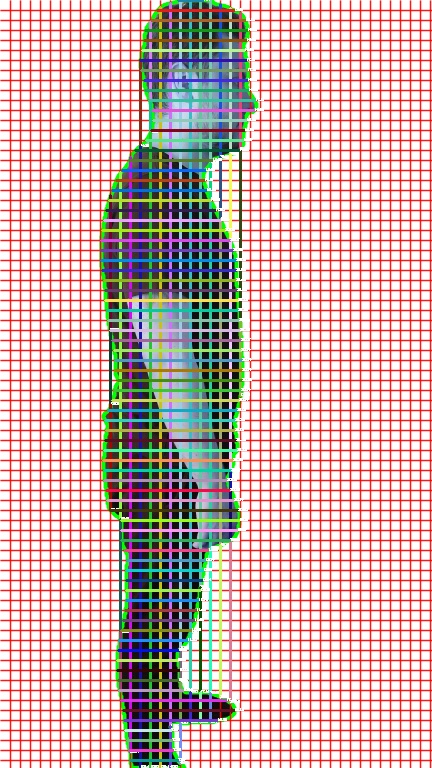
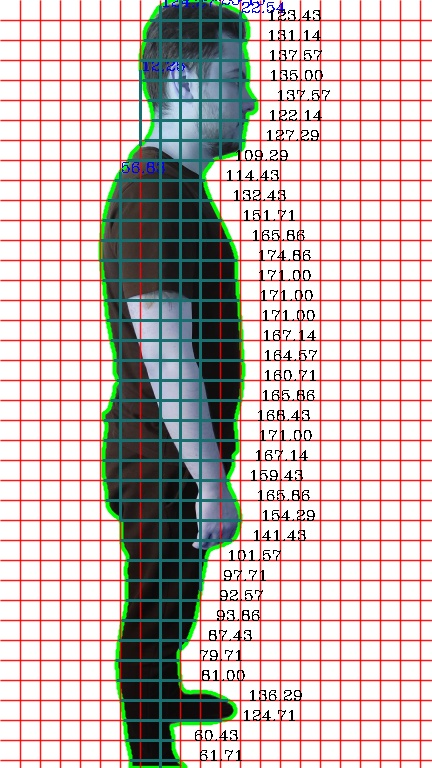
refactor

diff --git a/Logic/Measuring/MeasureObject.py b/Logic/Measuring/MeasureObject.py
@@ -15,7 +15,7 @@ def get_distinct_x(xy_coords):
     return dist_x
 
 
-def get_distinct_x_coords(xy_coords, dist_x):
+def get_x_coords(xy_coords, dist_x):
     x_coords = list()
     for j in dist_x:
         dist_x_coords = list()
@@ -26,7 +26,7 @@ def get_distinct_x_coords(xy_coords, dist_x):
     return x_coords
 
 
-def get_distinct_y_coords(xy_coords, dist_y):
+def get_y_coords(xy_coords, dist_y):
     y_coords = list()
     for j in dist_y:
         dist_y_coords = list()
@@ -45,130 +45,62 @@ def get_distinct_y(xy_coords):
     return dist_y
 
 
-def find_min_max_dot_x(_lists, _l):
-    min_max_x = list()
-    for j in range(len(_l)):
-        min = 9999999
-        max = -1
-        for i in range(len(_lists)):
-            if _lists[i][0] == _l[j]:
-                num = _lists[i][1]
-                if _lists[i][1] > max:
-                    max = num
-                if num < min:
-                    min = num
-        min_max_x.append([_l[j], min])
-        min_max_x.append([_l[j], max])
-    return min_max_x
-
-
-def find_min_max_dot_y(_lists, _l):
-    min_max_y = list()
-    for j in range(len(_l)):
-        min = 9999999
-        max = -1
-        for i in range(len(_lists)):
-            if _lists[i][1] == _l[j]:
-                num = _lists[i][0]
-                if num > max:
-                    max = num
-                if num < min:
-                    min = num
-        min_max_y.append([min, _l[j]])
-        min_max_y.append([max, _l[j]])
-    return min_max_y
-
-
-def find_same_dots_on_x(_lists, _l):
-    same_dots_x = list()
-    for j in range(len(_l)):
-        test_list_x = list()
-        for i in range(len(_lists)):
-            if _lists[i][0] == _l[j]:
-                num = _lists[i][1]
-                test_list_x.append([num, _l[j]])
-        same_dots_x.append([test_list_x])
-    return same_dots_x
-
-
-def find_same_dots_on_y(_lists, _l):
-    same_dots_y = list()
-    for j in range(len(_l)):
-        test_list_y = list()
-        for i in range(len(_lists)):
-            if _lists[i][1] == _l[j]:
-                num = _lists[i][0]
-                test_list_y.append([num, _l[j]])
-        same_dots_y.append([test_list_y])
-    return same_dots_y
-
-
-def draw_lines_x(_img, x_coords, _color):
+def draw_lines_x(_img, x_coords,pixel_lenght):
     x_coords.sort()
     for k in x_coords:
         k.sort()
         for i in range(len(k) - 1):
-            r = random.randint(0, 255)
-            g = random.randint(0, 255)
-            b = random.randint(0, 255)
-            rgb = [r, g, b]
             point1 = k[i]
-            if i > 0:
-                if k[i][1] - k[i - 1][1] < 10:
-                    continue
-            for j in range(i + 1, len(k)):
-                point2 = k[j]
-                if point2[1] - point1[1] >= 25:
-                    print(f"{point1} {point2} : {point2[1] - point1[1]}")
-                    cv2.line(_img, point1, point2, rgb, 2)
-                    cv2.putText(_img, f"{((point2[1] - point1[1]) * 0.1633):.2f}", point2, cv2.FONT_HERSHEY_SIMPLEX, 0.1, (255, 255, 255))
-                    break
+            point2 = k[i + 1]
+            if point2[1] - point1[1] < 10:
+                continue
+            if point2[1] - point1[1] >= 25:
+                print(f"{point1} {point2} : {point2[1] - point1[1]}")
+                cv2.line(_img, point1, point2, rgb, 2)
+                cv2.putText(_img, f"{((point2[1] - point1[1]) * 0.1633):.2f}", point1, cv2.FONT_HERSHEY_COMPLEX, 0.5, (255, 0, 0))
+                break
 
 
-def draw_lines_y(_img, y_coords, _color):
+def draw_lines_y(_img, y_coords, pixel_ratio):
     y_coords.sort()
     for k in y_coords:
         k.sort()
         for i in range(len(k) - 1):
-            r = random.randint(0, 255)
-            g = random.randint(0, 255)
-            b = random.randint(0, 255)
-            rgb = [r, g, b]
             point1 = k[i]
-            if i > 0:
-                if k[i][0] - k[i - 1][0] < 10:
-                    continue
-            for j in range(i + 1, len(k)):
-                point2 = k[j]
-                if point2[0] - point1[0] >= 25:
-                    print(f"{point1} {point2} : {point2[0] - point1[0]}")
-                    cv2.line(_img, point1, point2, rgb, 2)
-                    cv2.putText(_img, f"{((point2[0] - point1[0]) * 0.1633):.2f}", point2, cv2.FONT_HERSHEY_SIMPLEX, 0.1, (255, 255, 255))
-                    break
+            point2 = k[i + 1]
+            if point2[0] - point1[0] < 10:
+                continue
+            if point2[0] - point1[0] >= 25:
+                print(f"{point1} {point2} : {point2[0] - point1[0]}")
+                cv2.line(_img, point1, point2, rgb, 2)
+                distance = distance_calculate(point1, point2, pixel_ratio)
+                cv2.putText(_img, distance, (point2[0] + 20, point2[1]), cv2.FONT_HERSHEY_COMPLEX, 0.5, (0, 0, 0))
 
 
-def distance_calculate(p1, p2):
-    """p1 and p2 in format (x1,y1) and (x2,y2) tuples"""
-    dis = ((p2[0] - p1[0]) ** 2 + (p2[1] - p1[1]) ** 2) ** 0.5
+def distance_calculate(p1, p2, pixel_ratio):
+    dis = f"{((p2[0] - p1[0]) * pixel_ratio):.2f}"
     return dis
 
 
-def draw_lines(_img, _l, _col):
-    for i in range(0, len(_l) - 1, 2):
-        point1 = tuple(_l[i])
-        point2 = tuple(_l[i + 1])
-        cv2.line(_img, point1, point2, _col, 5)
+def calculate_object_height_pixel_ratio(horizontal_list, object_height):
+    distinct_x_values = get_distinct_x(horizontal_list)
+    min_x = min(distinct_x_values)
+    max_x = max(distinct_x_values)
+
+    pixel_ratio = object_height / (max_x - min_x)
+
+    return pixel_ratio
 
 
 def measure(img, horizontal_list, vertical_list):
     dist_x = get_distinct_x(horizontal_list)
     dist_y = get_distinct_y(vertical_list)
 
-    x_coords = get_distinct_x_coords(horizontal_list, dist_x)
-    y_coords = get_distinct_y_coords(vertical_list, dist_y)
+    x_coords = get_x_coords(horizontal_list, dist_x)
+    y_coords = get_y_coords(vertical_list, dist_y)
 
-    draw_lines_x(img, x_coords, color_blue)
-    draw_lines_y(img, y_coords, color_yellow)
+    draw_lines_x(img, x_coords, pixel_ratio)
+    draw_lines_y(img, y_coords, pixel_ratio)
 
     img = cv2.cvtColor(img, cv2.COLOR_BGR2RGB)
     img_pil = Image.fromarray(img)

diff --git a/main.py b/main.py
@@ -10,28 +10,27 @@ from Logic.CameraOperations.Camera.OpenCamera import *
 from Data import *
 import sys
 import numpy
-numpy.set_printoptions(threshold=sys.maxsize)
 
+numpy.set_printoptions(threshold=sys.maxsize)
 
 # Directory of Images
 first_path = "Images"
-
 
 # Directory of RefinedImages
 path = "RefinedImages"
 
 # How much pixel blanks will be given after one grid.
-grid_interval = 10
+grid_interval = 20
 
 # At what percentage will the image be resized?
 scale_percent = 40
+
 
 # The list we had to keep Images in it.
 image_directory_list = []
 
 
 async def main():
-
     # open camera and take photos
     await open_camera(first_path)
 
@@ -50,9 +49,6 @@ async def main():
             # Resize image
             resized_img = resize_image(converted_img, scale_percent)
 
-            # Apply canny edge detection
-            # canny_img = canny(resized_img)
-
             # Apply edge detection to image and find contours
             img_cv2, contour_list = edge_detection(resized_img)
 
@@ -61,6 +57,9 @@ async def main():
 
             # Find intersection points of grid and image
             horizontal_list, vertical_list = find_intersection(contour_list, grid_interval)
+
+            if item == "Images/0.jpg":
+                pixel_ratio = calculate_object_height_pixel_ratio(horizontal_list, height)
 
             # print(contour_list)
             # Measure object and save final image.
@@ -71,5 +70,6 @@ async def main():
 
         except Exception as ex:
             print(ex)
+
 
 asyncio.run(main())

diff --git a/Logic/Detecting/EdgeDetection.py b/Logic/Detecting/EdgeDetection.py
@@ -8,10 +8,10 @@ def edge_detection(param_img):
 
         gray = cv2.cvtColor(img, cv2.COLOR_BGR2GRAY)
 
-        ret, thresh = cv2.threshold(gray, 210, 255, cv2.THRESH_BINARY)
+        ret, thresh = cv2.threshold(gray, 240, 255, cv2.THRESH_BINARY)
         thresh = 255 - thresh
 
-        shapes, hierarchy = cv2.findContours(image=thresh, mode=cv2.RETR_EXTERNAL, method=cv2.CHAIN_APPROX_NONE)
+        shapes, hierarchy = cv2.findContours(image=thresh, mode=cv2.RETR_TREE, method=cv2.CHAIN_APPROX_NONE)
         cv2.drawContours(image=img, contours=shapes, contourIdx=-1, color=(0, 255, 0), thickness=2,
                          lineType=cv2.LINE_AA)
 

diff --git a/Logic/CameraOperations/Camera/OpenCamera.py b/Logic/CameraOperations/Camera/OpenCamera.py
@@ -5,6 +5,7 @@ import asyncio
 
 
 async def open_camera(path):
+    count = 0
     webcam = cv2.VideoCapture(0, cv2.CAP_DSHOW)
 
     while webcam.isOpened():
@@ -14,7 +15,7 @@ async def open_camera(path):
             cv2.imshow("Capturing", frame)
             key = cv2.waitKey(1)
             if key == ord('s'):
-                count = count + 1
+                count += 1
                 await save_image(image=frame, image_name=f"saved_image{count}.jpg", path=path)
 
             elif key == ord('q'):
